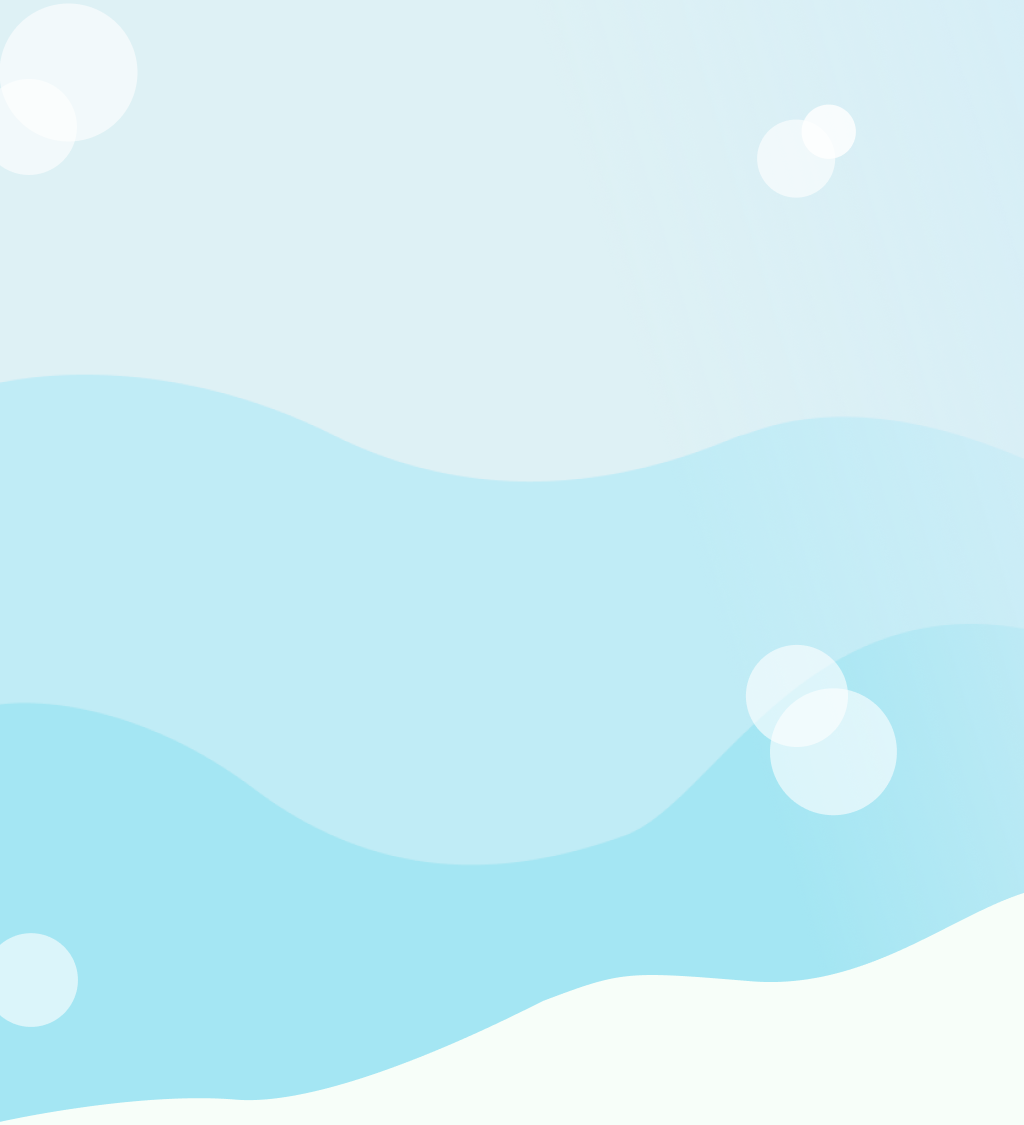
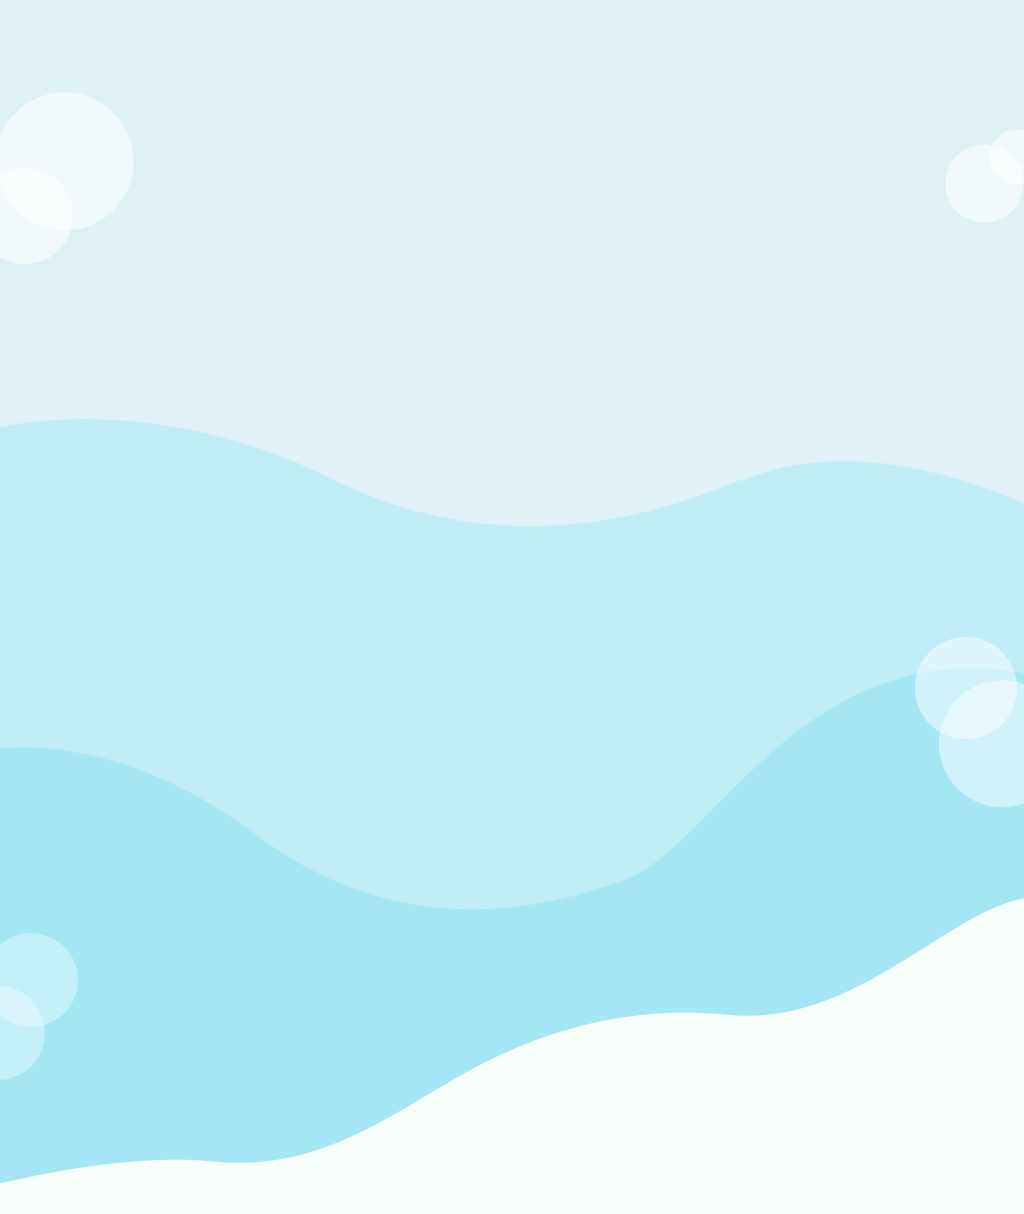
pad

diff --git a/css/media.css b/css/media.css
@@ -123,12 +123,12 @@
     content: "";
     position: absolute;
     right: 0;
-    bottom: 0;
+    top: 46%;
     width: 500px;
     height: 500px;
     background: url(../asset/img/gnb.svg) no-repeat right bottom;
     background-size: contain;
-    opacity: 0.15;
+    opacity: 0.25;
     pointer-events: none;
     z-index: 0;
   }
@@ -368,7 +368,7 @@
 
   .visual .swiper-slide {
     width: 100%;
-    height: 55vh;
+    height: 50vw;
     border-radius: 0;
   }
 
@@ -410,7 +410,7 @@
 
   .time .inner {
     flex-direction: column;
-    gap: 30px;
+    gap: 60px;
     text-align: center;
   }
 
@@ -449,6 +449,7 @@
   /* Animal */
   .animal {
     padding: 60px 0;
+    background: url(../asset/img/pad_ani_bg.png) no-repeat center;
   }
 
   .animal .inner {
@@ -776,6 +777,7 @@
   /* News */
   .news {
     padding: 60px 0;
+    background-color: #def1f5;
   }
 
   .news .inner {
@@ -887,29 +889,23 @@
 
   /* Footer */
   .footer {
-    padding: 40px 37px 0;
+    padding: 60px 37px;
   }
 
-  /* 상단 영역 - 가로 배치 유지 */
+  .footer .inner {
+    padding: 0;
+  }
+
   .footer_top {
     flex-direction: row;
     gap: 0;
     align-items: center;
     justify-content: space-between;
     padding: 0;
+    padding-bottom: 40px;
+    margin-left: -37px; /* inner의 왼쪽 패딩만큼 음수 마진 */
+    margin-right: -37px; /* inner의 오른쪽 패딩만큼 음수 마진 */
   }
-
-  /* 로고를 오른쪽으로 */
-  .footer_logo {
-    margin-right: 0;
-    order: 2;
-  }
-
-  .footer_logo img {
-    width: 165px;
-    height: 51px;
-  }
-
   /* 네비게이션을 왼쪽으로 */
   .footer_nav {
     order: 1;
@@ -917,11 +913,24 @@
     gap: 8px 15px;
     font-size: 14px;
     max-width: 60%;
+    padding-left: 37px; /* 다시 안쪽 패딩 추가 */
   }
 
   .footer_nav a {
     padding: 5px 0;
-    font-size: 14px;
+    font-size: 16px;
+  }
+
+  /* 로고를 오른쪽으로 */
+  .footer_logo {
+    margin-right: 0;
+    order: 2;
+    padding-right: 37px; /* 다시 안쪽 패딩 추가 */
+  }
+
+  .footer_logo img {
+    width: 165px;
+    height: auto;
   }
 
   /* 하단 영역 - 가로 배치 유지 */
@@ -931,7 +940,7 @@
     margin-top: 0;
     align-items: flex-end;
     justify-content: space-between;
-    padding-bottom: 50px;
+    padding: 0;
   }
 
   /* 회사정보 - 왼쪽 정렬 */
@@ -943,47 +952,54 @@
   }
 
   .footer_info p {
-    font-size: 14px;
+    font-size: 0.9rem;
   }
 
-  /* SNS + 계열사 버튼 영역 - 오른쪽 */
+  /* SNS + 계열사 버튼 영역 - 오른쪽 가로 배치 */
   .footer_right {
     order: 2;
     display: flex;
-    flex-direction: column;
-    align-items: flex-end;
+    flex-direction: row;
+    align-items: center;
     gap: 20px;
   }
 
   /* SNS 아이콘 */
   .footer_sns {
-    gap: 12px;
+    gap: 10px;
     margin-bottom: 0;
+    display: flex;
+    flex-direction: row;
   }
 
   .footer_sns a {
-    width: 50px;
-    height: 50px;
+    width: 35px;
+    height: 35px;
+    display: flex;
+    align-items: center;
+    justify-content: center;
   }
 
   .footer_sns a img {
-    width: 24px;
-    height: 24px;
+    width: 20px;
+    height: 20px;
+    object-fit: contain;
   }
 
   /* 계열사 버튼 */
   .footer_family {
-    font-size: 14px;
-    padding: 14px 28px;
+    font-size: 13px;
+    padding: 10px 24px;
     flex-shrink: 0;
+    white-space: nowrap;
   }
 
   /* 상단 이동 버튼 */
   .top_btn {
-    width: 50px;
-    height: 50px;
-    bottom: 37px;
-    right: 37px;
+    width: 45px;
+    height: 45px;
+    bottom: 15px;
+    right: 10px;
     font-size: 18px;
   }
 }
